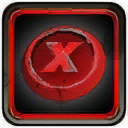
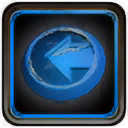
Одна команда — два значка: псевдоним escape2
В игре отмена постройки и выход из меню рисуются по-разному, но хоткей у них
общий — escape. Переименовать значок, не сломав команду, нельзя, поэтому в
раскладке пишется имя картинки, а команда берётся из таблицы COMMAND_ALIASES.

Плитка показывает клавишу команды escape и значок escape2.png, клик пишет в
escape — в файле игры одна строка, как и было.

Проверка раскладки знает про псевдонимы и больше не ругается на escape2.

diff --git a/WaaaHa!-patcher.React/src/gameData/layouts.ts b/WaaaHa!-patcher.React/src/gameData/layouts.ts
@@ -1,4 +1,4 @@
-import type { FactionKey } from './factions'
+import type { FactionKey } from './factions'
 
 /**
  * Экран набора описывается здесь и больше нигде.
@@ -42,6 +42,19 @@
  * `=`. Значение клавиши интерфейс берёт из файла сам; вручную его задавать не
  * нужно. Значок тоже ищется сам по этому идентификатору: кнопка `marine_hq`
  * покажет `/hotkey-images/marine_hq.png`, и если файла нет — текст заглушки.
+ *
+ * ── Одна команда, два значка ───────────────────────────────────────────────
+ *
+ * У части команд в игре по картинке на контекст: отмена постройки и выход из
+ * меню рисуются по-разному, а хоткей один — `escape`. Переименовать значок, не
+ * сломав команду, нельзя, поэтому пишется имя картинки, а команда берётся из
+ * таблицы COMMAND_ALIASES в этом же файле.
+ *
+ *   command: ['', 'escape2'],
+ *
+ * Плитка покажет и покажет клавишу команды `escape`, но значок возьмёт из
+ * `escape2.png`. Клик запишет клавишу в `escape` — так и надо, в файле игры одна
+ * строка.
  *
  * Что в панели не описано, не показывается: никаких правил по умолчанию больше нет.
  *
@@ -91,25 +104,58 @@ export interface UnitLayout {
 
 /** Состав рас. Пока пусто — всё заполняется руками. */
 export const FACTION_ROSTERS: Readonly<Partial<Record<FactionKey, FactionRoster>>> = {
-  // marine: {
-  //   troops: ['marine_servitor', 'marine_space_marine'],
-  //   buildings: ['marine_hq'],
-  //   sections: {
-  //     Infantry: ['marine_servitor', 'marine_space_marine'],
-  //     Building: ['marine_hq'],
-  //   },
-  // },
+   marine: {
+     troops: ['marine_servitor', 'marine_space_marine'],
+     buildings: ['marine_hq'],
+     sections: {
+       Infantry: ['marine_servitor', 'marine_space_marine'],
+       Building: ['marine_hq'],
+     },
+   },
 }
 
-/** Панели юнитов и строений. Пока пусто — всё заполняется руками. */
+/** Панели юнитов и строений.
+ * 
+ * marine_servitor: {
+    command: ['move', 'stop', 'attackmove', 'attackmelee'],
+    second: ['',],
+    improvements: ['',],
+  },
+*/
 export const UNIT_LAYOUTS: Readonly<Record<string, UnitLayout>> = {
-  // marine_hq: {
-  //   command: ['', '', '', 'build', 'repair'],
-  //   second: ['marine_armoury', 'marine_chapel'],
-  //   improvements: ['military_cycle', 'builder_cycle'],
-  // },
+  marine_servitor: {
+    command: ['move', 'stop', '', '', 'build', 'repair'],
+    second: ['marine_hq', 'marine_chapel', 'marine_listening_post', 'marine_generator',
+             'marine_armoury', 'marine_machine_cult', 'marine_artefact', 'marine_thermo_generator',
+             'marine_bolter_turret', 'marine_mine_field', 'marine_orbital_relay', 'escape'],
+    improvements: ['',],
+  },
+  marine_hq: {
+    command: ['', '', '', 'build', 'repair'],
+    second: ['marine_armoury', 'marine_chapel'],
+    improvements: ['rally'],
+  },
 }
 
 export function rosterOf(faction: FactionKey | null): FactionRoster {
   return (faction && FACTION_ROSTERS[faction]) || {}
+}
+
+/**
+ * Значки, у которых команда одна, а картинок две.
+ *
+ * В игре отмена постройки и выход из меню рисуются по-разному, но хоткей у них
+ * общий — `escape`. Переименовать значок, не сломав команду, иначе нельзя, и в
+ * раскладке приходится писать имя значка.
+ *
+ * Ключ — имя значка в `hotkey-images`, значение — команда из файла биндингов.
+ * Клавиша, которую покажет плитка и которую назначит клик, будет из значения.
+ */
+export const COMMAND_ALIASES: Readonly<Record<string, string>> = {
+  escape2: 'escape',
+}
+
+/** Настоящая команда за именем из раскладки: само имя либо то, на что оно указывает. */
+export function commandOf(id: string): string {
+  return COMMAND_ALIASES[id] ?? id
 }

diff --git a/WaaaHa!-patcher.React/src/pages/EditorPage.tsx b/WaaaHa!-patcher.React/src/pages/EditorPage.tsx
@@ -17,6 +17,7 @@ import {
   IMPROVEMENT_SLOTS,
   PANEL_SLOTS,
   UNIT_LAYOUTS,
+  commandOf,
   rosterOf,
   type RosterSection,
 } from '../gameData/layouts'
@@ -598,7 +599,7 @@ function pick(
   indexed: IndexedHotkeys,
 ): HotkeyEntry[] {
   return (ids ?? [])
-    .map((id) => (id ? indexed.byId.get(id) : undefined))
+    .map((id) => (id ? entryFor(id, indexed) : undefined))
     .filter((entry): entry is HotkeyEntry => entry !== undefined)
 }
 
@@ -607,16 +608,43 @@ function unique(ids: readonly string[], indexed: IndexedHotkeys): HotkeyEntry[] 
 
   return ids
     .filter((id) => {
-      if (seen.has(id)) {
+      const command = commandOf(id)
+
+      if (seen.has(command)) {
         return false
       }
 
-      seen.add(id)
+      seen.add(command)
 
       return true
     })
-    .map((id) => indexed.byId.get(id))
+    .map((id) => entryFor(id, indexed))
     .filter((entry): entry is HotkeyEntry => entry !== undefined)
+}
+
+/**
+ * Хоткей, стоящий за именем из раскладки.
+ *
+ * У псевдонима из COMMAND_ALIASES команда общая с оригиналом, а значок свой:
+ * возвращаем копию, у которой путь к картинке ведёт на имя из раскладки. Сама
+ * команда остаётся — по ней показывается клавиша и по ней же клик её запишет.
+ */
+function entryFor(id: string, indexed: IndexedHotkeys): HotkeyEntry | undefined {
+  const command = commandOf(id)
+  const entry = indexed.byId.get(command)
+
+  if (entry === undefined) {
+    return undefined
+  }
+
+  return command === id ? entry : { ...entry, iconUrl: withIconOf(entry.iconUrl, id) }
+}
+
+/** Тот же путь к картинке, но с именем из раскладки вместо имени команды. */
+function withIconOf(iconUrl: string, name: string): string {
+  const slash = iconUrl.lastIndexOf('/')
+
+  return slash < 0 ? iconUrl : `${iconUrl.slice(0, slash + 1)}${name}`
 }
 
 /**
@@ -672,7 +700,9 @@ function slots(
   size: number,
   indexed: IndexedHotkeys,
 ): (HotkeyEntry | null)[] {
-  const cells = (manual ?? []).slice(0, size).map((id) => (id ? (indexed.byId.get(id) ?? null) : null))
+  const cells = (manual ?? [])
+    .slice(0, size)
+    .map((id) => (id ? entryFor(id, indexed) ?? null : null))
 
   while (cells.length < size) {
     cells.push(null)
